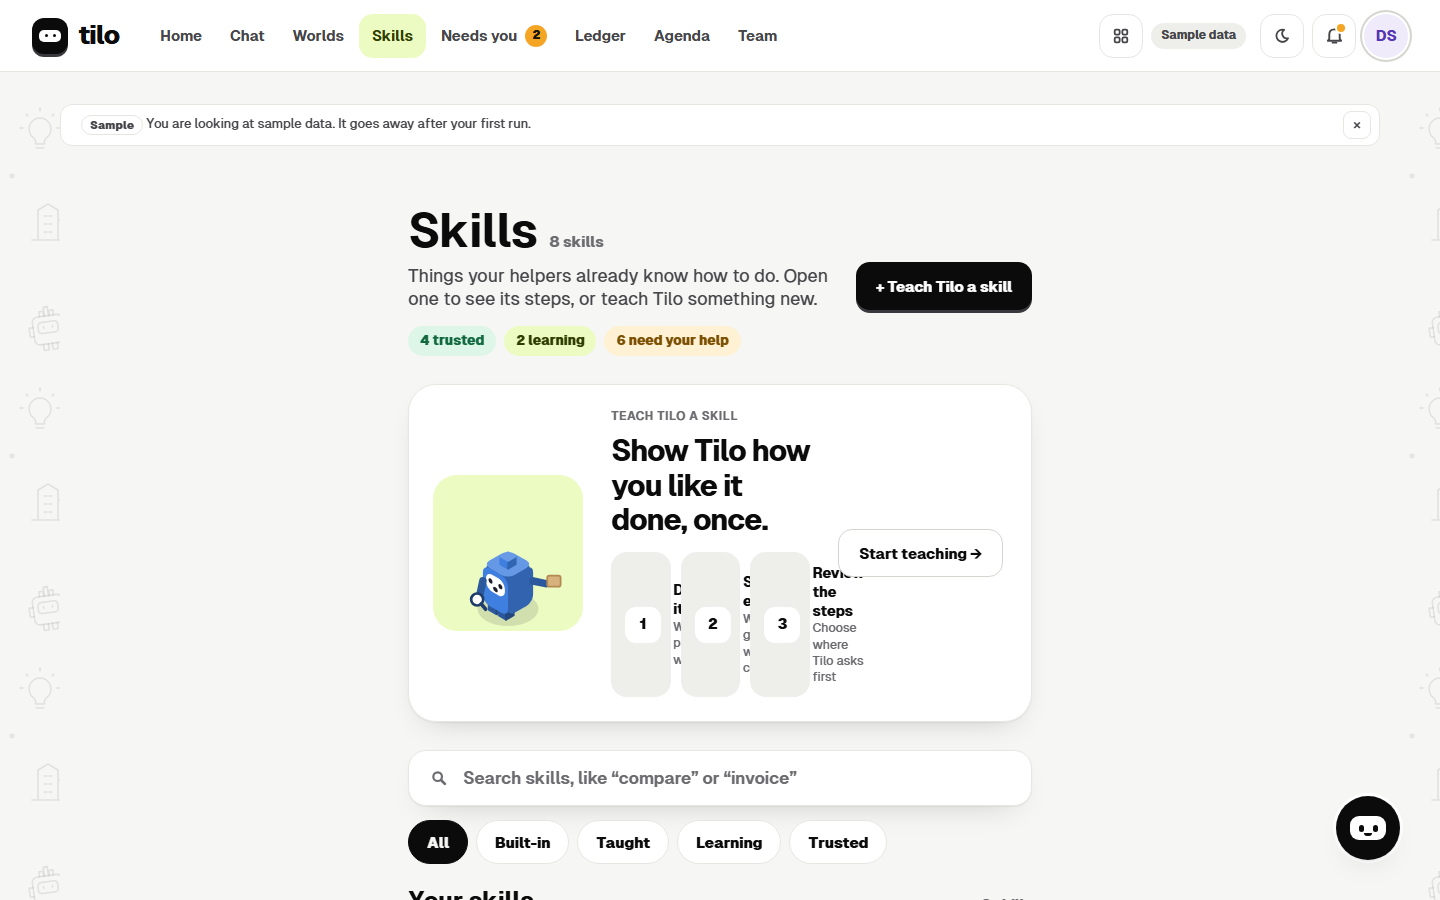
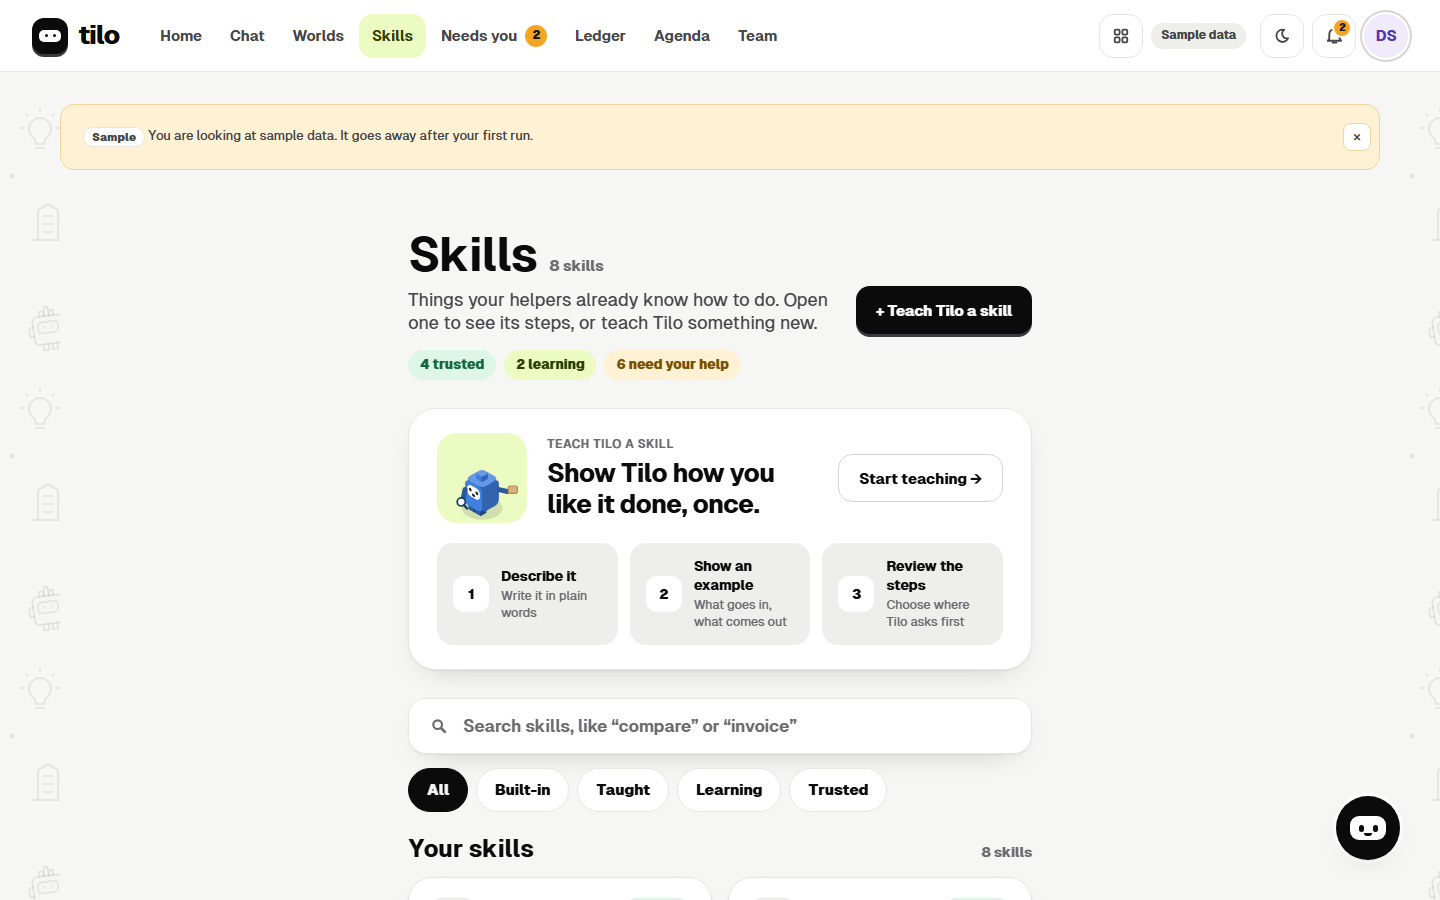
docs(readme): fix nav anchor, align claims with the live site, add Meetings and a world screenshot
- Top nav: the World link pointed at a heading id GitHub does not generate; use the real one. Add a Meetings link.
- Truth pass against the live demo (build 9f493ba6): Chat and the More menu in Try it, what is off in the demo, Story/Steps/Result tabs, Trace described as the switch inside Story (raw-record viewer not built yet), no "within 200 ms" promise.
- Eval bank is 160 cases (not 170). Repo layout lists meet-bot, logging and redact. Prerequisites name Python 3.12, Node 22 and pnpm 10.
- New Meetings section: Tilo joins a Google Meet as a guest that the host admits; prototype, test meetings only.
- Coming, not live: browser control with a visible AI cursor, public app pages, Drive CSV import, Lovable. Browser service row and Drive row say so.
- Honesty rules numbered 1 to 7 instead of internal IDs; no requirement IDs in the overview.
- Mermaid: shorter labels so the How it works flow is legible on GitHub; agent-team diagram redrawn without overlapping edge labels.
- Screenshots: re-captured Skills from the live site (the old one showed a squashed Teach card) and added a World screenshot.

diff --git a/README.md b/README.md
@@ -23,9 +23,10 @@
 <a href="#-try-it">Try it</a> ·
 <a href="#%EF%B8%8F-tour">Tour</a> ·
 <a href="#-how-it-works">How it works</a> ·
-<a href="#-the-world">World</a> ·
+<a href="#%EF%B8%8F-the-world">World</a> ·
 <a href="#-the-agent-team">Agents</a> ·
 <a href="#-you-stay-in-charge">Control</a> ·
+<a href="#-meetings">Meetings</a> ·
 <a href="#%EF%B8%8F-architecture">Architecture</a> ·
 <a href="#-genai-map">GenAI map</a> ·
 <a href="#%EF%B8%8F-security-notes">Security</a> ·
@@ -45,7 +46,7 @@ Organisations are starting to hand real work to AI agents, but that work is invi
 
 | 🗣 **Plain words in** | 🧾 **Price first** | 🏙 **A world you can read** | 🛡 **You stay in charge** |
 |---|---|---|---|
-| One sentence, plus files if they help | Plan and cost in real money before anything starts | World, Story and Trace lenses on every job | Risky steps wait at a gate for a person |
+| One sentence, plus files if they help | Plan and cost shown before anything starts | A map, a Story and a Trace for every job | Risky steps wait at a gate for a person |
 
 Tilo is built around three ideas:
 
@@ -59,12 +60,18 @@ Tilo is built around three ideas:
 
 - The demo town is **sample data** (a made-up company with 11 worlds). It is labelled as sample throughout.
 - **Demo sessions replay recorded runs.** The landing page shows a recorded example (a 44-event run: triage an inbox, answer a supplier) replayed faster than it happened, with a banner saying so. Nothing in the demo sends real email.
-- Look around: **Home** (what needs you today), **Worlds** (your town of jobs), open a world and switch between **Story**, **Steps** and **Result**, then **Skills**, **Needs you**, **Ledger**, **Agenda** and **Team**.
-- Signing in with Google is optional and is how you would run your own work.
+- Look around: **Home** (what needs you today), **Chat**, **Worlds** (your town of jobs), open a world and switch between **Story**, **Steps** and **Result**, then **Skills**, **Needs you**, and under **More** the **Ledger**, **Agenda** and **Team** pages (on a wide screen they sit in the top bar).
+- In the demo, **approving records nothing** and **uploads are off**. Signing in with Google is optional and is how you run your own work.
 
 ## 🖼 Tour
 
-> Screenshots are taken from the live demo town at 1440 px and 390 px wide.
+> Screenshots are taken from the live demo town at 1440 px and 390 px wide. The data is sample data.
+
+<p align="center">
+<img src="docs/assets/readme/world-desktop.png" alt="A world: an isometric map with a gate waiting for approval, and Story, Steps and Result tabs beside it" width="92%"/>
+<br/>
+<sub><b>A world.</b> The map on the left, Story, Steps and Result on the right. Here a purchase above the district limit is paused at a gate until a person decides.</sub>
+</p>
 
 | Home | Your town of worlds |
 |---|---|
@@ -93,18 +100,19 @@ Tilo is built around three ideas:
 4. **See it, steer it.** The work is drawn as a world and narrated in plain sentences. Anything that sends, shares or deletes goes through a gate. When it finishes you get the result, the cost and the trail behind it.
 
 ```mermaid
+%%{init: {"flowchart": {"nodeSpacing": 20, "rankSpacing": 28, "padding": 8}}}%%
 flowchart LR
-    A["Describe the work"] --> B["Director plans<br/>units, cost, assumptions"]
-    B --> C{"You approve<br/>plan and budget"}
-    C --> D["Agent teams run<br/>the units"]
-    D --> E{"Side effect?"}
-    E -- "yes" --> F["Policy engine<br/>risk tier and autonomy level"]
-    F -- "needs a person" --> G["Gate: you approve<br/>web, phone or email"]
-    F -- "allowed" --> H["Outbox releases it<br/>through a connector"]
+    A["Describe<br/>the work"] --> B["Director<br/>plans, prices"]
+    B --> C{"You<br/>approve"}
+    C --> D["Agent teams<br/>run it"]
+    D --> E{"Side<br/>effect?"}
+    E -- "no" --> I["Result and<br/>provenance"]
+    E -- "yes" --> F["Policy engine<br/>tier and level"]
+    F -- "needs a person" --> G["Gate: you<br/>approve"]
+    F -- "allowed" --> H["Outbox and<br/>connector"]
     G --> H
-    E -- "no" --> I["Result and provenance"]
     H --> I
-    I --> J["World, Story and Trace<br/>show what happened"]
+    I --> J["World, Story,<br/>Trace"]
 ```
 
 ## 🏙 The world
@@ -122,11 +130,11 @@ Each job is its own world, drawn as an isometric map. The shape of the map carri
 | **Gate** | An authorisation point before a side effect | Opens by a person's approval or by a policy, and the two look different |
 | **Cloud cover** | No access yet | A lock glyph that lifts when you consent |
 
-**Three lenses on the same events, kept in sync within 200 ms:**
+**Three views on the same recorded events:**
 
-- **World:** the isometric view with camera, zoom and level switching.
-- **Story:** a plain-language timeline of what happened, narrated from the events.
-- **Trace:** every event with its causation chain, model profile, tokens, latency and authorisation, linked to the raw archive record.
+- **World:** the isometric map with zoom and level switching.
+- **Story:** a plain-language timeline of what happened, narrated from the events. Next to it, **Steps** shows the plan in order with progress, and **Result** holds the delivered output.
+- **Trace:** a switch inside Story that lists every recorded event with its type, actor, model role, tokens, latency and credits. It names the raw archive record for each event; opening that record from the Trace is not built yet.
 
 You can **inspect** any agent, building, gate or artifact, **replay** any finished run (the reducer is deterministic), and switch to a **professional density mode** (smaller characters, labels on, no decorative motion) or a **stage mode** for presentations.
 
@@ -134,15 +142,15 @@ You can **inspect** any agent, building, gate or artifact, **replay** any finish
 
 The world is a display of facts, not a screensaver. These rules are enforced by tests.
 
-| ID | Rule |
+| # | Rule |
 |---|---|
-| HR-1 | Every animation, Story line and meter change is caused by a recorded event |
-| HR-2 | No idle animation implies work that is not happening |
-| HR-3 | Movement is cosmetic and capped at 2 s; the world never runs ahead of the harness |
-| HR-4 | Replays carry a permanent "Replay of run, recorded on a date" banner |
-| HR-5 | Unknown event types appear in the Trace only |
-| HR-6 | Any time compression shows a visible speed badge |
-| HR-7 | Actions authorised by a policy look different from actions a person approved, and both link to the authorisation |
+| 1 | Every animation, Story line and meter change is caused by a recorded event |
+| 2 | No idle animation implies work that is not happening |
+| 3 | Movement is cosmetic and capped at 2 s; the world never runs ahead of the harness |
+| 4 | Replays carry a permanent "Replay of run, recorded on a date" banner |
+| 5 | Unknown event types appear in the Trace only |
+| 6 | Any time compression shows a visible speed badge |
+| 7 | Actions authorised by a policy look different from actions a person approved, and both link to the authorisation |
 
 > Background motion on the Home screen is decoration and is the one exception; motion inside a world is always real.
 
@@ -150,15 +158,16 @@ The world is a display of facts, not a screensaver. These rules are enforced by 
 
 ```mermaid
 flowchart TD
-    O["Owner"] --- D["Director"]
+    O["Owner"] --> D["Director"]
     D --> L1["Lead: district A"]
     D --> L2["Lead: district B"]
-    TL["Human Team Lead<br/>domain expert"] -.guides.- L2
     L1 --> S1["Specialists"]
     L2 --> S2["Specialists"]
-    V["Verifier"] -.checks.- L1
-    V -.checks.- L2
-    W["Writer"] --> DD["Deliverables"]
+    L2 -. "asks" .-> TL["Human Team Lead<br/>domain expert"]
+    S1 --> V["Verifier<br/>checks claims and numbers"]
+    S2 --> V
+    V --> W["Writer"]
+    W --> DD["Deliverables"]
 ```
 
 | Role | Job |
@@ -280,6 +289,16 @@ flowchart LR
 
 Risk tiers are assigned deterministically by action type and context. Policies are objects with scope, limits, conditions, expiry and an undo window (`contracts/policy.schema.json`). Every side-effect event records who or what authorised it, and a kill switch sets every policy back to L1 instantly.
 
+## 🎥 Meetings
+
+Tilo can join a Google Meet to take minutes and draft the follow-ups.
+
+- **A guest, not a login.** The bot joins as a named guest and waits to be let in: **the host admits it**. It never creates a call and never admits anyone else.
+- **It says who it is first.** It posts a disclosure in the Meet chat before it reads anything, and any participant can say or type "Tilo leave" to stop it.
+- **Minutes as you talk.** It reads the live captions and every 45 seconds sends the last few minutes to a model (through the providers layer) to track the agenda, decisions, action items and open questions. Code, not the model, decides whether it may speak: at most four short chat nudges per meeting, at least five minutes apart.
+- **Follow-ups wait for your yes.** Anything it would send goes through a gate like every other side effect.
+- **Test meetings only for now.** The bot lives in `meet-bot/` and is still a prototype. Do not use it for sensitive meetings until Google's data terms for that use are reviewed.
+
 ## 🏗 Architecture
 
 ```mermaid
@@ -328,7 +347,7 @@ flowchart TB
 | **tilo-harness** (`services/harness`) | Runs the work: one single-writer process per world for planning, agents, handoff and events (Google ADK, Python) |
 | **tilo-channels** (`services/channels`) | Notifications and approval links, channel identity binding |
 | **tilo-connectors** (`services/connectors`) | OAuth token broker, Gmail, Drive and Calendar adapters, and the outbox for side effects |
-| **tilo-browser** (`services/browser`) | One isolated headless browser per instance, with allowlisted egress and masking |
+| **tilo-browser** (`services/browser`) | Groundwork for browser work: one isolated headless browser per instance, with allowlisted egress and masking. Browser control you can watch (with a visible AI cursor) is coming, not live yet |
 | **tilo-render** (`services/render`) | Deliverables: PDF and PPTX rendered from templates; charts drawn by code from data, never by a model |
 | **tilo-sandbox-web** (`services/sandbox-web`) | Fictional websites used by scenarios and evals, so tests never touch the real web |
 
@@ -408,7 +427,7 @@ Business code never names a model. It asks for a **role**, and configuration dec
 | Connector | What it can do | Scopes |
 |---|---|---|
 | **Gmail** | Read, search, create drafts, send in an existing thread | Least privilege: readonly, compose, send; never full mailbox access |
-| **Google Drive** | Read the files you pick; write deliverables to a Tilo folder | `drive.file` only |
+| **Google Drive** | Read the files you pick; write deliverables to a Tilo folder. Importing a CSV from Drive is coming | `drive.file` only |
 | **Google Calendar** | Read availability for scheduling | Read-only |
 
 Every connector action is declared in `config/connectors.yaml` with a risk tier, limits, and a data class that says what is redacted. User OAuth tokens are envelope-encrypted with Cloud KMS and decryptable only by the connectors service.
@@ -423,7 +442,7 @@ Every connector action is declared in `config/connectors.yaml` with a risk tier,
 2. Third-party access only through OAuth with least-privilege, incremental scopes.
 3. Browser sessions are ephemeral; nothing is stored between runs.
 4. Secrets never enter prompts, logs, traces, the raw archive or analytics.
-5. CI uses Workload Identity Federation: no keys in the repo.
+5. Automation authenticates with Workload Identity Federation: no service-account keys in the repo.
 
 **Prompt-injection defence in depth**
 
@@ -439,7 +458,7 @@ Every connector action is declared in `config/connectors.yaml` with a risk tier,
 
 ## 📊 Eval results
 
-Tilo ships a **170-case eval bank** (`evals/cases/`, schema in `evals/case.schema.json`) in eight groups:
+Tilo ships a **160-case eval bank** (`evals/cases/`, schema in `evals/case.schema.json`) in eight groups:
 
 | Group | What it measures |
 |---|---|
@@ -472,13 +491,14 @@ Run the harness with `just eval`. Scores are not claimed here; measured results 
 ```
 apps/web            React and PixiJS web app
 services/           api, harness, connectors, channels, browser, render, sandbox-web
+meet-bot/           Google Meet guest bot (prototype)
 packages/           providers, policy, planning, memory, archive, metering, people, world,
-                    contracts-py, contracts-ts
+                    logging, redact, contracts-py, contracts-ts
 contracts/          JSON Schemas, event registry and fixtures (the source of truth)
 config/             models, prices, autonomy, connectors, teams, scenarios and other configuration
 prompts/ skills/    prompt templates and teachable skills
 templates/          deliverable templates
-evals/              eval harness and the 170-case bank
+evals/              eval harness and the 160-case bank
 infra/              Terraform
 docs/               PRD, architecture decision records, notes
 design/             design tokens and design source
@@ -488,17 +508,17 @@ tests/              acceptance tests named after requirement IDs
 ### How it is built
 
 - **Contracts first.** JSON Schemas and the event registry in `contracts/` win over prose; Python and TypeScript types are generated from them, and drift fails the build.
-- **Spec-driven.** The product spec is `docs/prd/tilo-prd-v2.md`. Requirement IDs (for example FR-WLD-02, PL-01, SEC-13) are ticket IDs, and each acceptance test is the definition of done, with the ID in the test name.
+- **Spec-driven.** The product spec is `docs/prd/tilo-prd-v2.md`. Every requirement has an ID that doubles as its ticket, and each acceptance test is the definition of done, with the ID in the test name.
 - **Decisions are written down** as architecture decision records in `docs/adr/`.
 - **Models are configuration**, side effects go through the outbox and policy engine, and nothing animates without a recorded event.
 - **Local-first.** Development uses the Firestore and Pub/Sub emulators with a `demo-` project id, and makes no paid calls.
 
 ## 🚀 How to run
 
-Prerequisites: Python with [`uv`](https://docs.astral.sh/uv/), Node with `pnpm`, and [`just`](https://github.com/casey/just).
+Prerequisites: Python 3.12 with [`uv`](https://docs.astral.sh/uv/), Node 22 or newer with `pnpm` 10, and [`just`](https://github.com/casey/just).
 
 ```bash
-just setup   # uv sync and pnpm install for every workspace member
+just setup   # uv sync, pnpm install and git hooks for every workspace member
 just dev     # web dev server
 just dev-api # tilo-api dev server
 just check   # format, lint, typecheck and all tests (the full gate)
@@ -511,9 +531,11 @@ Local development uses fake and record-and-replay providers, so it makes no paid
 ## 📝 Honest notes
 
 - **The demo is sample data.** The demo town and its worlds are a made-up company. Demo sessions replay recorded runs and say so; approving in the demo records nothing.
-- **Google connectors:** Gmail, Drive and Calendar are the connectors in scope for this release. Other connectors (for example Microsoft 365, MCP servers, Slides, Docs and Sheets creation) are future scope.
+- **Google connectors:** Gmail, Drive and Calendar are the connectors in scope for this release. Other connectors (for example Microsoft 365, MCP servers, Slides, Docs and Sheets creation, and Lovable) are future scope.
 - **Channels:** approvals work from the web app, mobile web and email. WhatsApp is not part of this release.
 - **Email Autopilot** is limited to a small test group until Google's app verification is complete.
+- **Meetings:** the Meet bot joins as a guest the host admits. It is a prototype for test meetings only.
+- **Coming, not live yet:** browser control you can watch, with a visible AI cursor; public app pages for small apps Tilo builds; importing a CSV from Drive. The `tilo-browser` service and the app-page contracts exist, but these experiences are not available on the live site.
 - **Roadmap items, not shipped:** desktop control, Build mode, workforce orchestration, scoped contributors who talk to agents directly.
 - **Evals:** the bank and harness exist; this README quotes no scores (see above).
 - **Models:** the default build routes every role through Google's Agent Platform; other adapters are for development and tests, and recordings made on them are not claimed as evidence for the default.
@@ -524,6 +546,10 @@ Local development uses fake and record-and-replay providers, so it makes no paid
 - ✅ Describe, plan, run, approve; isometric worlds with World, Story and Trace lenses
 - ✅ Gmail, Drive and Calendar connectors
 - ✅ Agenda with team and personal pinboards, Team page, Skills, Ledger
+- ✅ Meet bot that joins as a guest (prototype, test meetings)
+- 🔜 Browser control you can watch, with a visible AI cursor
+- 🔜 Public app pages
+- 🔜 Importing a CSV from Drive
 - 🔜 More connectors for other work tools
 - 🔜 Native Google Slides, Docs and Sheets deliverables
 - 🔜 Desktop control and Build mode

diff --git a/docs/assets/readme/INDEX.md b/docs/assets/readme/INDEX.md
@@ -2,6 +2,10 @@
 
 This directory contains live application screenshots captured directly from the local running web application using sample and fixture datasets. No mock-ups are used; every capture demonstrates real functionality and views rendered by the Tilo Park frontend.
 
+## Images the README uses
+
+The README shows `landing-*`, `home-*`, `agenda-*`, `worlds-desktop.jpg`, `skills-desktop.png`, `team-desktop.png`, `ledger-desktop.png` and `world-desktop.png`. They were captured from the live demo town (sample data) at 1440 × 900 and 390 wide. `skills-desktop.png` and `world-desktop.png` were re-captured on 19 October 2026 from the deployed build. The `1440-*` and `390-*` files below were captured from a local run and are kept for reference.
+
 ## Desktop Views (1440 × 900)
 
 | Screenshot | Screen / View | Description |
